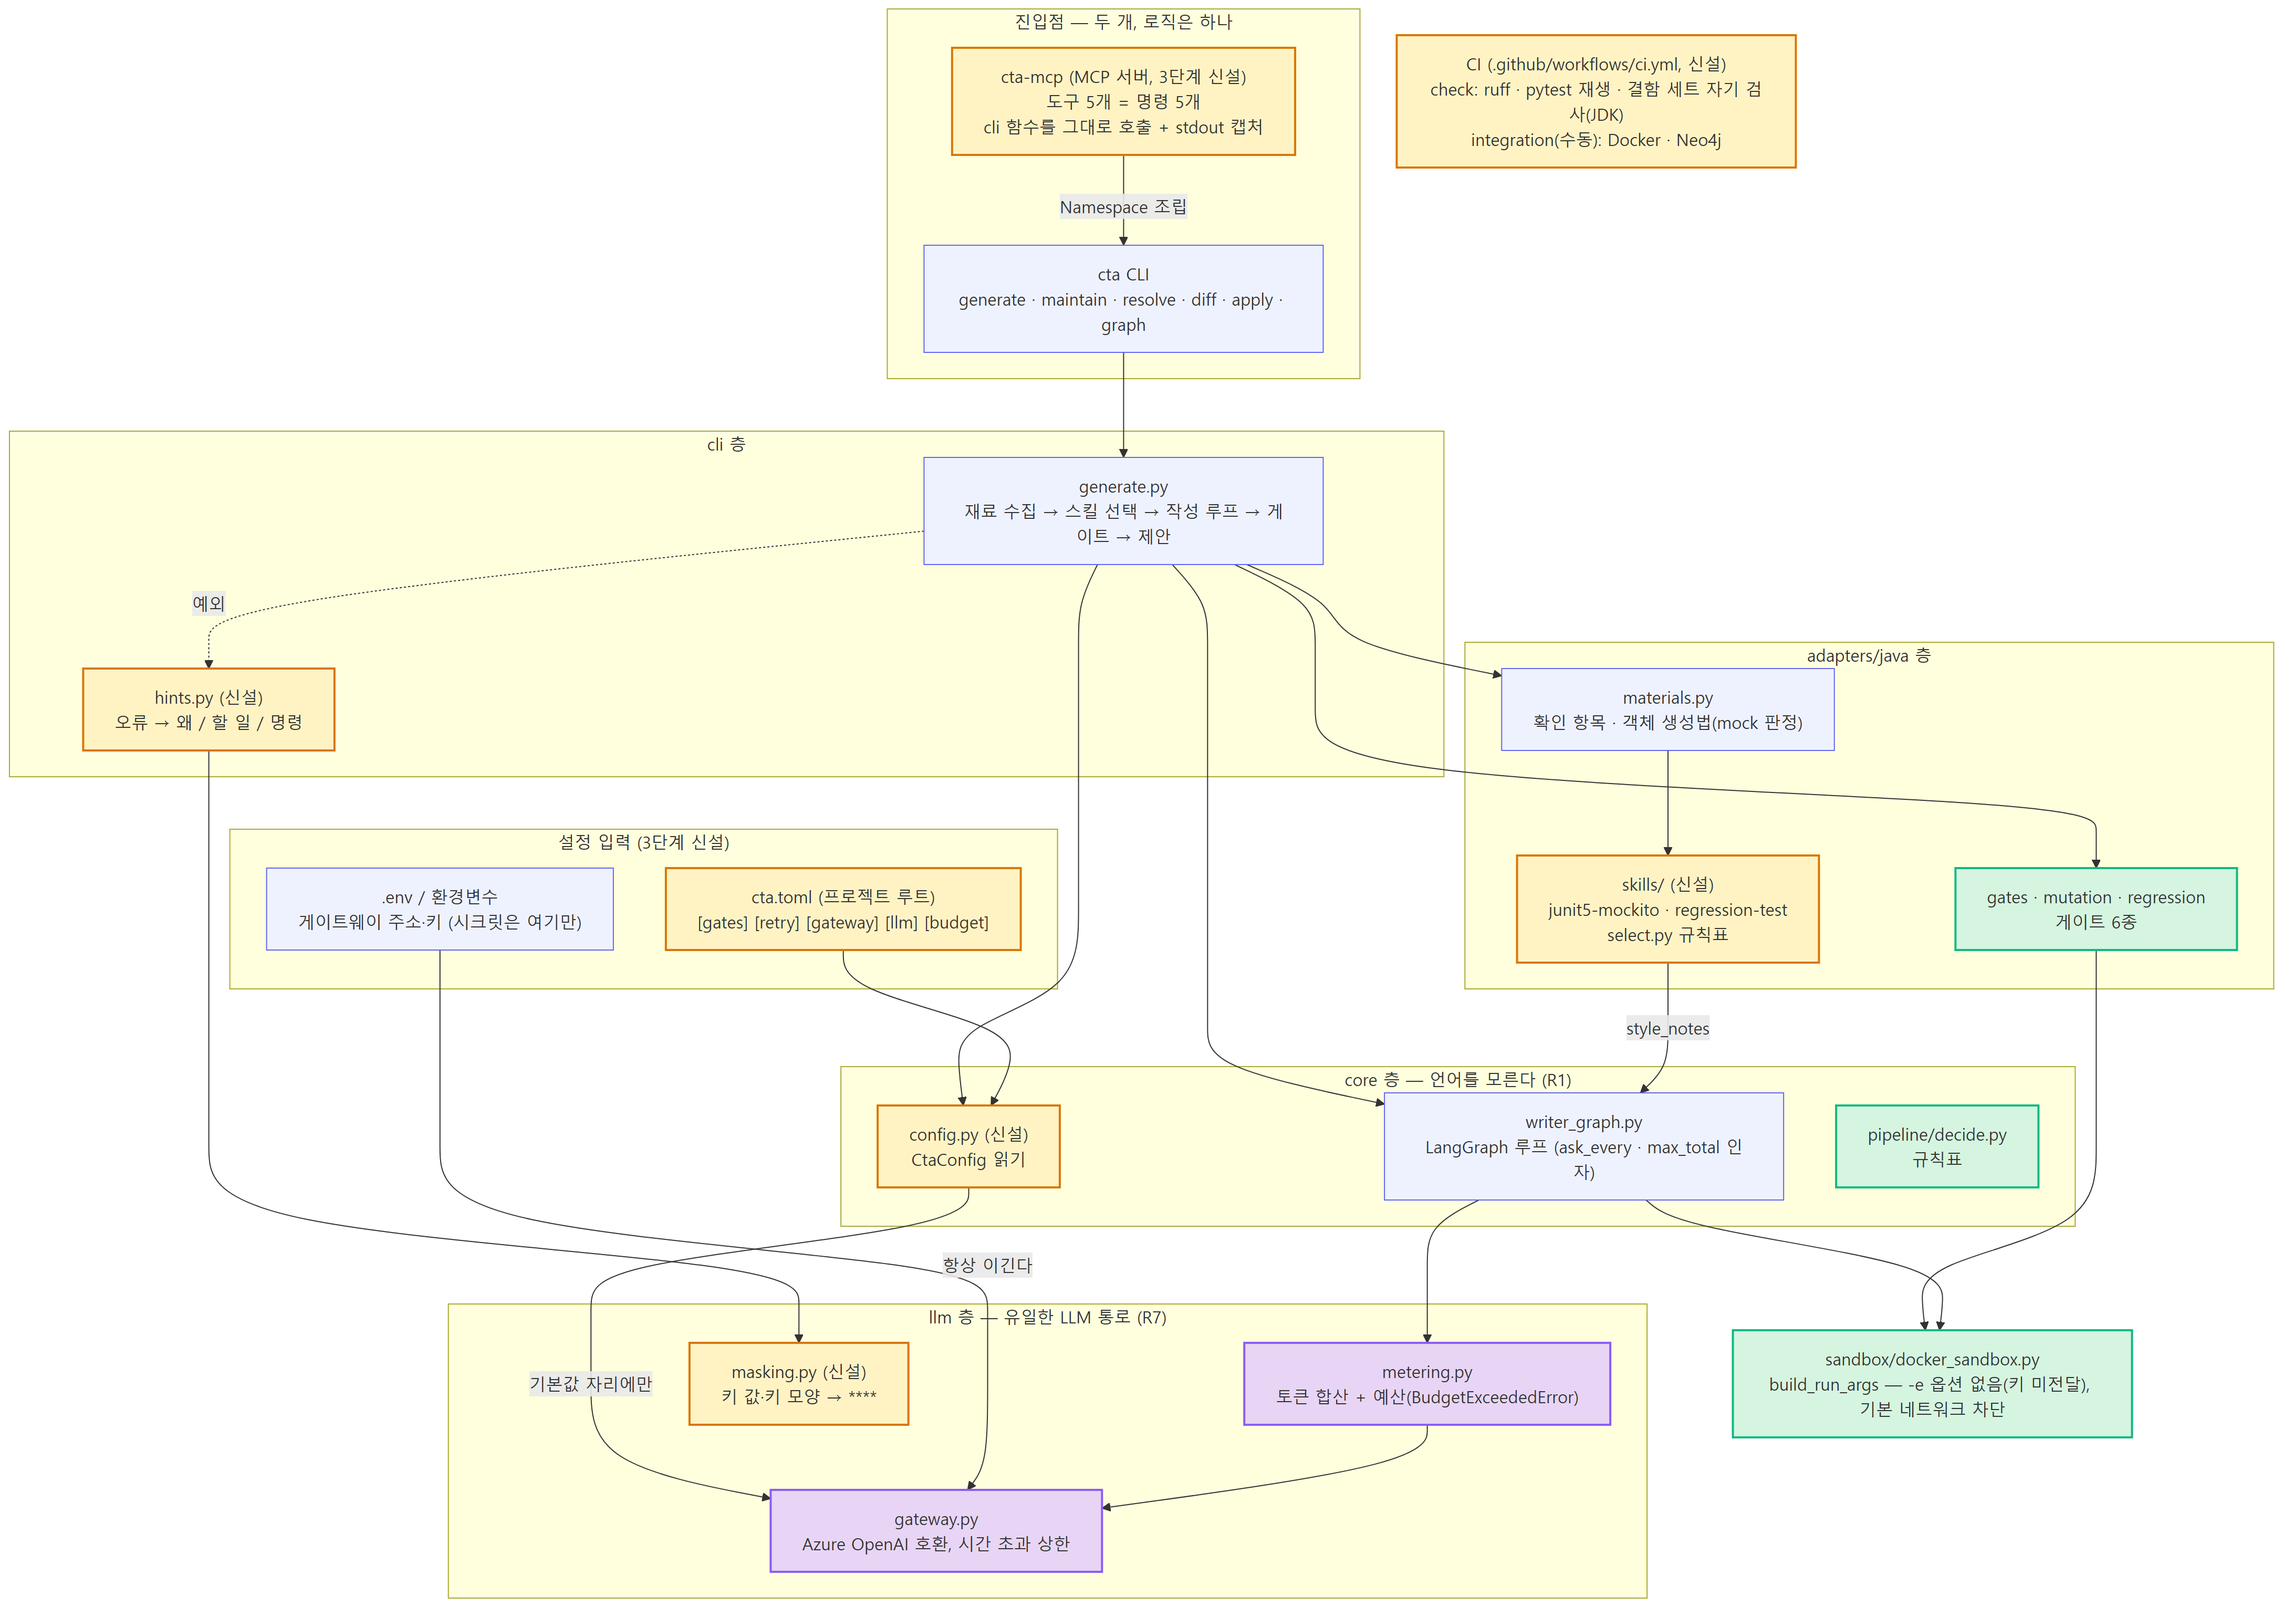
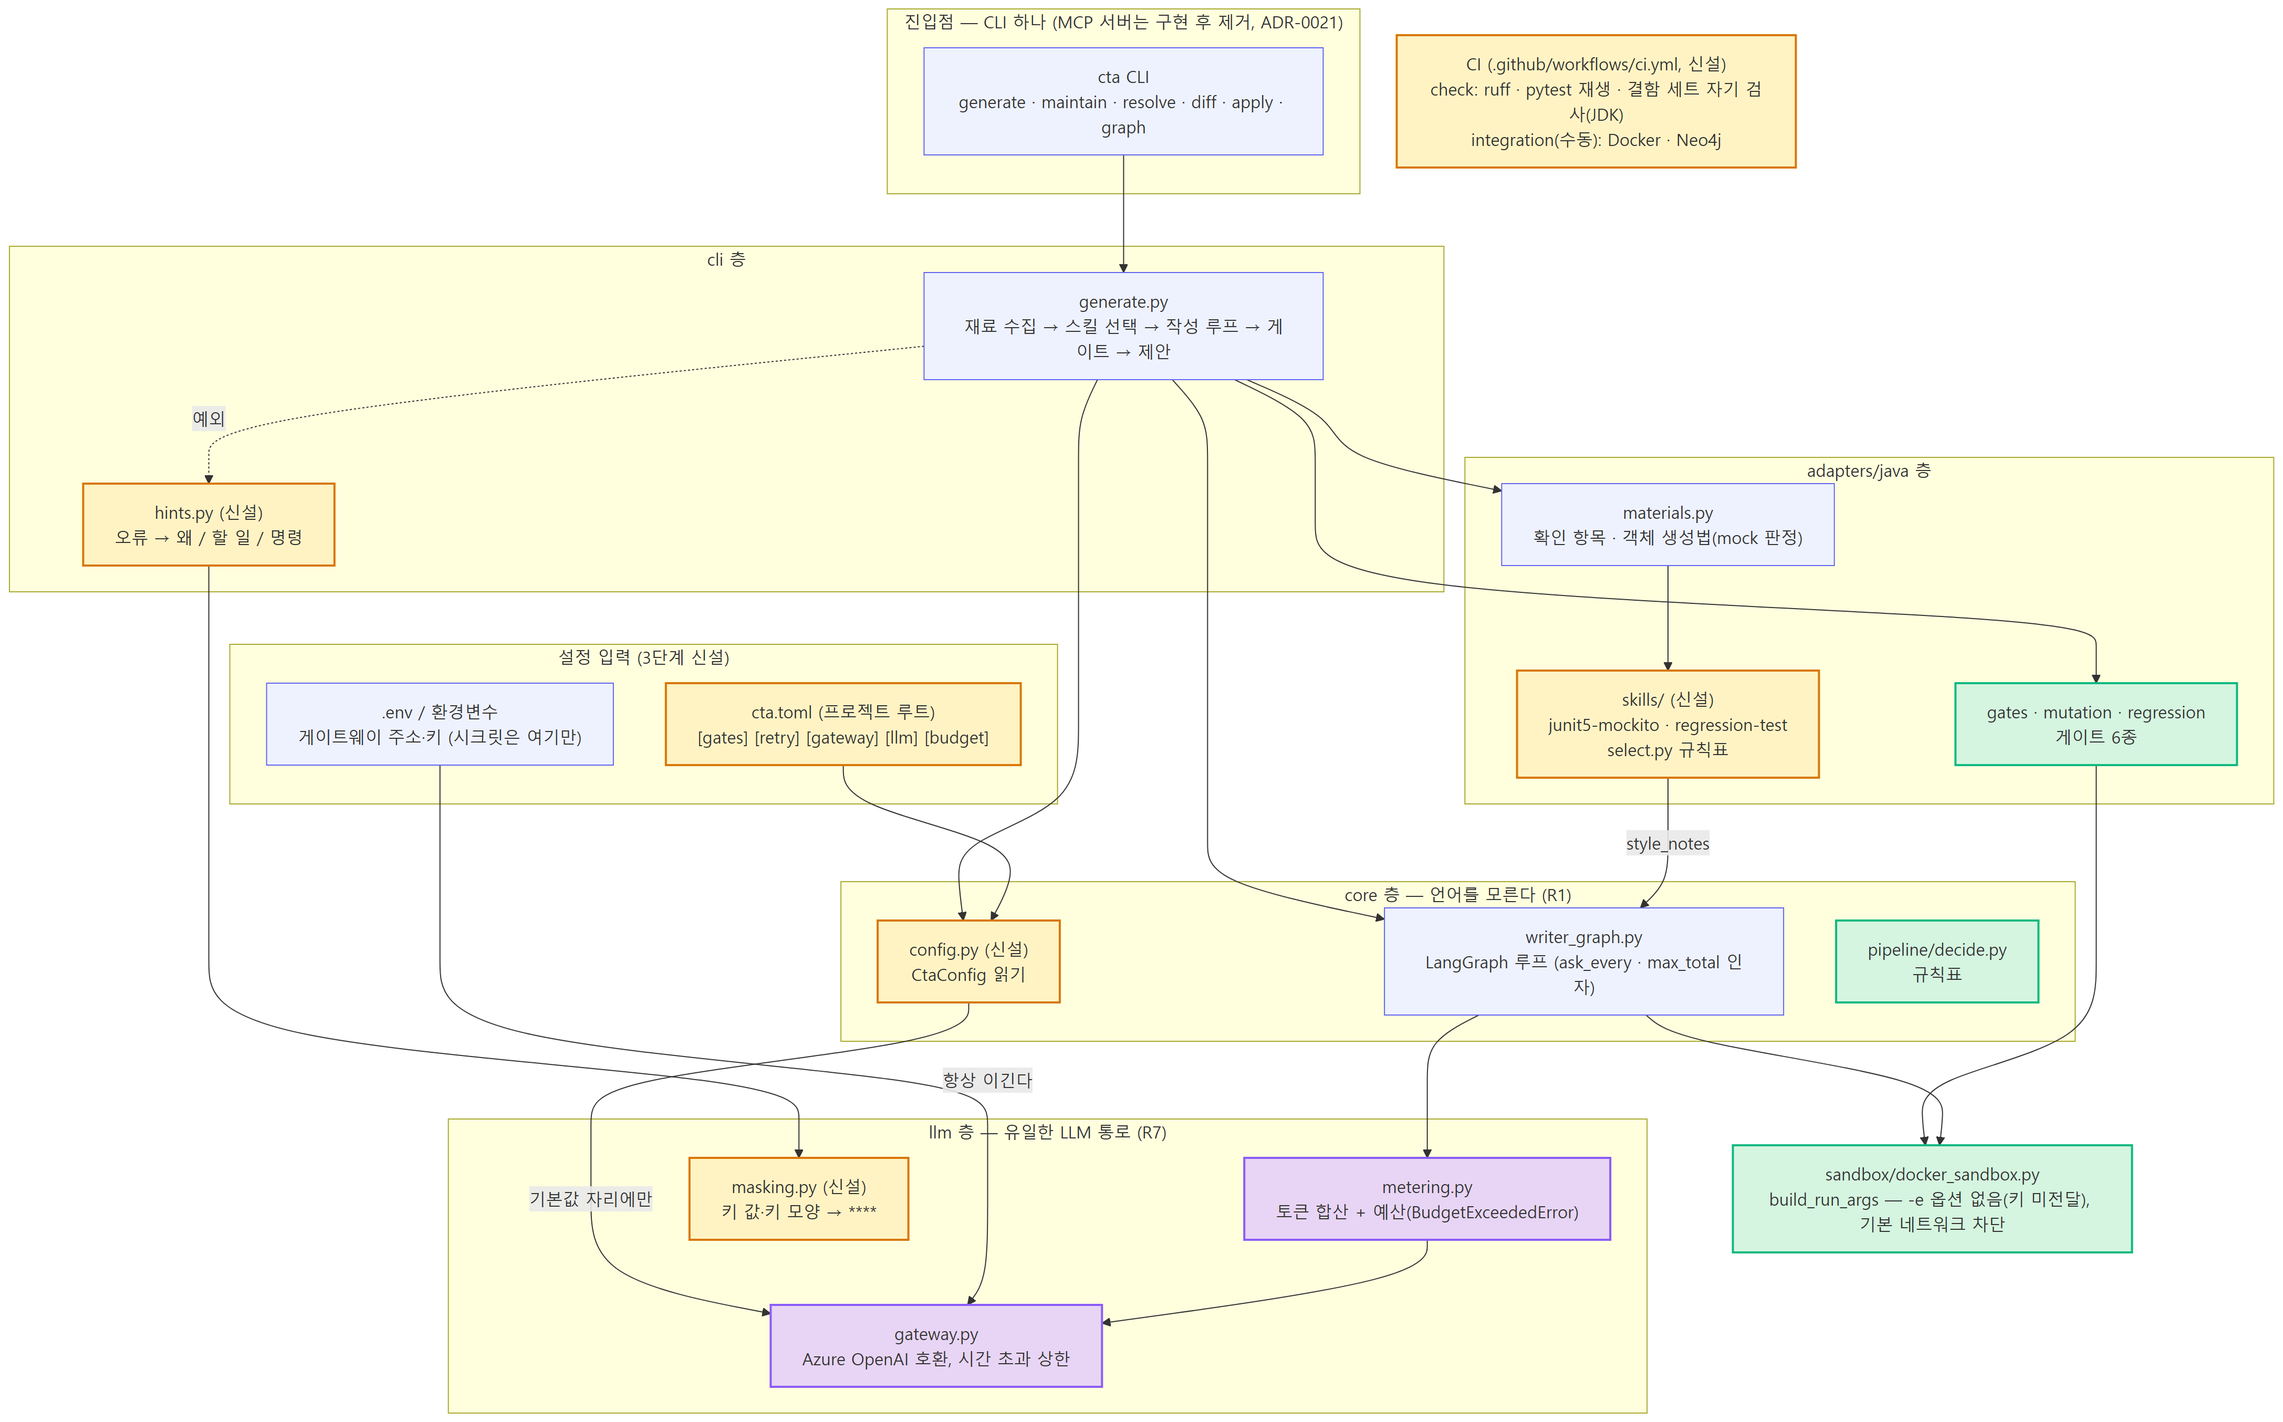
MCP 서버 제거 (2/2) — 설정·문서·다이어그램 반영 (ADR-0021)
직전 커밋 3fe5a95는 파일 삭제(cta/mcp·test_mcp·mcp-path)만 담겼다 — 이 커밋이 나머지를 채운다.
- pyproject: 선택 의존성 [mcp]·진입점 cta-mcp·패키지 cta.mcp 제거(3fe5a95 단독으로는 패키지 목록이 없는 폴더를 가리켜 설치가 깨짐)
- CI 설치 `pip install -e .`로 원복. 주석 3곳(config·gateway·test_config)의 MCP 언급을 "오래 사는 프로세스"로
- ADR-0021 신설, ADR-0018 폐기 표기, 색인 갱신
- 문서: README(Claude Code 절 삭제), 사용가이드(§14 삭제, §15→§14), architecture·contracts(MCP 층 삭제), 개발환경, CLAUDE.md, phase3 스킬,
  PoC구현, 제출자료/E2E서비스개발, E2E/최종보고. E2E 계획·기록 문서는 "구현 후 제거"로 표기 + e2e-notes 8주차
- 다이어그램: e2e-architecture·e2e-status·config-precedence 수정 후 재렌더(원본 해상도)

검증: ruff 통과, pytest 236 passed / 4 deselected / skip 0, 코드·설정·CI에 mcp 참조 0건, pip install -e . 후 cta --help 정상

diff --git a/cta/llm/config.py b/cta/llm/config.py
@@ -77,7 +77,7 @@ def make_llm_client(
       넘겨 로컬 설정과 격리한다 — 개발자의 .env가 테스트 결과를 바꾸면 안 된다.
     model_default / timeout_default: 프로젝트 설정(cta.toml)이 준 기본값. 환경변수·.env에
       값이 없을 때만 쓰인다(우선순위: 환경변수 > .env > cta.toml > 코드 기본값 — core/config.py).
-      환경변수에 써넣지 않는다 — 오래 사는 프로세스(MCP 서버)가 프로젝트를 바꿔도 이전 값이
+      환경변수에 써넣지 않는다 — 오래 사는 프로세스가 프로젝트를 바꿔도 이전 값이
       남지 않는다.
     실패 시 동작: 주소·키 미설정은 GatewayClient가 GatewayConfigError로 알린다.
     """

diff --git a/cta/llm/gateway.py b/cta/llm/gateway.py
@@ -60,7 +60,7 @@ class GatewayClient:
     def __init__(self, timeout_default: int | None = None) -> None:
         """timeout_default: 환경변수 CTA_GATEWAY_TIMEOUT이 없을 때 쓸 값(cta.toml [gateway]).
 
-        환경변수를 고쳐 넣지 않고 인자로 받는 이유: MCP 서버처럼 오래 사는 프로세스가 여러
+        환경변수를 고쳐 넣지 않고 인자로 받는 이유: 오래 사는 프로세스가 여러
         프로젝트를 차례로 다룰 때 첫 프로젝트의 설정이 환경변수에 남아 다음 프로젝트를
         오염시키면 안 된다.
         """

diff --git a/tests/test_config.py b/tests/test_config.py
@@ -74,7 +74,7 @@ class TestPrecedence:
         assert client.timeout == 120
 
     def test_cta_toml_값은_환경변수에_남지_않는다(self):
-        # 오래 사는 프로세스(MCP 서버)가 다음 프로젝트를 다룰 때 이전 프로젝트 설정이 이기면 안 된다
+        # 오래 사는 프로세스가 다음 프로젝트를 다룰 때 이전 프로젝트 설정이 이기면 안 된다
         make_llm_client(self.no_dotenv, model_default="gpt-5", timeout_default=600)
         assert "CTA_LLM_MODEL" not in os.environ
         assert "CTA_GATEWAY_TIMEOUT" not in os.environ

diff --git a/docs/E2E/README.md b/docs/E2E/README.md
@@ -6,14 +6,15 @@
 > **3단계 목표**: 개발자(나 아닌 사람)가 설치 가이드만 보고 자기 프로젝트에 돌릴 수 있는 상태.
 > 데모 시나리오 2개가 처음부터 끝까지 매끄럽게 도는 것.
 
-**진행 상태 (2026-09-06)**: M8-a 6건 완료 · M8-b B-1(스킬)·B-2(결함 세트 v2)·B-4(MCP)·B-5(메모 불변식) 구현 완료,
+**진행 상태 (2026-09-06)**: M8-a 6건 완료 · M8-b B-1(스킬)·B-2(결함 세트 v2)·B-4(MCP — 이후 제거)·B-5(메모 불변식) 구현 완료,
 B-3과 전/후 측정은 Docker·게이트웨이 환경 대기 · M8-c C-2(README)·C-4(문서 정합)·C-5(한계 절)·길이 조정 완료,
 C-1(데모 3회)·C-3(설치 테스트)·C-7(Linux)은 환경·사람 필요. 추가: 로컬 실행 모드 `--fast`(ADR-0019, 실기동 6초), 검토 4건 수정, 시각자료 6종, 최종보고. 세부는 [`e2e-notes.md`](e2e-notes.md), [`릴리스체크리스트.md`](릴리스체크리스트.md).
 
 **갱신 (2026-09-07)**: 다른 PC에 미커밋으로 남아 있던 **ADR-0020 의도 모름 축소**(2026-09-04 작업)를 병합했다 —
 `cta maintain --intent|--message`, `cta resolve --as`, `cta eval --intents`(의도 세트 10건 × 메시지 있음/없음, gpt-5 정확도 20/20·잘못된 unclear 0).
 ADR 번호 충돌(로컬 0016 ↔ 원격 0016 대화 압축)은 0020으로 옮겨 해소. 소스 전체 점검에서 결함 1건 수정(`resolve --as`가 `--fast`·`--runner`·`--quiet`를 무시)
-+ CI lint 설정 1건(ruff 0.16이 마크다운 코드 블록까지 포맷 검사 → `*.md` 제외). 단위 **236건** 통과. 점검 결과 전체는 e2e-notes "7주차".
++ CI lint 설정 1건(ruff 0.16이 마크다운 코드 블록까지 포맷 검사 → `*.md` 제외). 점검 결과 전체는 e2e-notes "7주차".
+같은 날 **MCP 서버 제거(ADR-0021)** — 발표·시연 볼륨을 줄이려는 사용자 결정. `cta/mcp/`·선택 의존성·진입점 삭제, 문서·다이어그램에서 제거. 단위 **236건** 통과(skip 0).
 
 3단계는 **넓히는 단계가 아니라 닫는 단계**다. 새 아이디어는 "향후 과제"로 보낸다.
 예외는 하나, 사람 멘토 피드백인 **워크플로우에 스킬 붙이기**다. 기술 어필이 부족하다는 지적이라 3단계 안에서 수치와 함께 닫는다.
@@ -47,7 +48,7 @@ phase2 스킬의 관문 3항목을 실측 근거로 대조했다.
 
 ## 2. 현황 진단 — 3단계 스킬 범위 대비 있는 것 / 없는 것
 
-> 이 표는 **3단계 진입 시점(2026-09-06 착수 전)의 스냅샷**이다. "없음"으로 적힌 항목 대부분(MCP·CI·설정 파일·스킬)은 이후 구현됐다 —
+> 이 표는 **3단계 진입 시점(2026-09-06 착수 전)의 스냅샷**이다. "없음"으로 적힌 항목 대부분(CI·설정 파일·스킬)은 이후 구현됐다(MCP는 구현 뒤 ADR-0021로 제거) —
 > 현재 상태는 상단 "진행 상태"와 [`e2e-notes.md`](e2e-notes.md), 남은 것은 [`릴리스체크리스트.md`](릴리스체크리스트.md)를 본다.
 
 | 3단계 범위 (스킬 M8) | 진입 시점 | 판정 |
@@ -79,8 +80,8 @@ phase2 스킬의 관문 3항목을 실측 근거로 대조했다.
 
 ### M8-b 확장 — 기술 어필 (1.5주)
 
-MCP 서버(core 재사용), 워크플로우 스킬(ADR-0017 → 스킬 2개 → 전/후 수치), 판단 메모 검색 강화 + 불변식 테스트, 결함 세트 확장.
-관문: Claude Code에서 MCP로 `generate`가 돈다. 스킬 전/후 표가 하네스 수치로 나온다. 결함 세트 12건 이상에서 검출률 재측정.
+MCP 서버(core 재사용 — 구현 후 ADR-0021로 제거), 워크플로우 스킬(ADR-0017 → 스킬 2개 → 전/후 수치), 판단 메모 검색 강화 + 불변식 테스트, 결함 세트 확장.
+관문: ~~Claude Code에서 MCP로 `generate`가 돈다~~(제거로 해당 없음). 스킬 전/후 표가 하네스 수치로 나온다. 결함 세트 12건 이상에서 검출률 재측정.
 
 ### M8-c 릴리스 — 닫기 (1주)
 
@@ -94,10 +95,10 @@ MCP 서버(core 재사용), 워크플로우 스킬(ADR-0017 → 스킬 2개 → 
 1. **설치 테스트**: 리포를 모르는 사람이 `docs/사용가이드.md`만 보고 새 Maven 프로젝트에 `cta generate`를 성공시킨다. 걸린 시간과 막힌 지점을 기록한다.
 2. **데모 2개**가 문서화된 명령 순서로 3회 연속 성공한다(콜드 스타트 / 유지보수 + escalate → resolve).
 3. **CI 그린**: ruff, pytest 재생 모드, 층 분리, 게이트 불변식. Docker·Neo4j 통합은 별도 잡(수동 또는 야간).
-4. **MCP**로 최소 `generate`·`maintain` 호출이 되고, CLI와 로직 중복이 없다(둘 다 core 호출 껍데기).
+4. ~~**MCP**로 최소 `generate`·`maintain` 호출이 되고, CLI와 로직 중복이 없다~~ — ADR-0021로 제거, 조건에서 제외.
 5. **스킬 전/후 수치**가 하네스 결과 파일과 함께 산출물에 있다.
 6. **시크릿 3 테스트** 초록, 커밋 diff에 키 모양 문자열 없음.
-7. **문서 정합**: ADR 목록 = 구현, `contracts.md` = `PoC구현.md` §2.0, `architecture.md` 모듈 표에 새 모듈(mcp, skills, config, sandbox/local_sandbox·factory, cli/eval_intents) 한 줄씩.
+7. **문서 정합**: ADR 목록 = 구현, `contracts.md` = `PoC구현.md` §2.0, `architecture.md` 모듈 표에 새 모듈(skills, config, sandbox/local_sandbox·factory, cli/eval_intents) 한 줄씩.
 8. **알려진 한계**가 사용가이드와 산출물 양쪽에 같은 내용으로 있다.
 
 ---

diff --git a/docs/E2E/e2e-notes.md b/docs/E2E/e2e-notes.md
@@ -128,13 +128,22 @@
 
 기록만 한 것(개선 후보 — 신규 기능이 아니라 정합·중복):
 - `cli/graph_cmd.py`가 "캐시 없으면 준비" 로직을 `cli/generate.ensure_prepared`와 따로 갖고 있다(문구·잘라내는 길이만 다름). 동작 오류는 없어 두었다 — 합치면 한 곳
-- MCP `resolve` 도구는 intended/test-issue/proceed/skip만 받는다. `--as`(ADR-0020)는 CLI에만 있다 — 의도적 범위이며 필요하면 ADR-0018 후속
+- ~~MCP `resolve` 도구에 `--as` 없음~~ → 같은 날 MCP 자체를 제거(8주차)
 - `docs/contracts.md` 품질 게이트 표 아래에 설정 파일 절이 끼어들어 게이트 행 10줄이 고아처럼 보인다(내용은 맞음) — 절 순서만 정리
 - `docs/사용가이드.md` §1·§7 옵션 표에 `--as`·`--intent`·`--message`·`--quiet`·`--runner`가 빠져 있다(본문 §6·§7에는 있음). `--warmup-test`·`eval` 옵션은 어디에도 없다
 - `docs/architecture.md` §개요에 "`mcp_server/`만 아직 없다"가 남아 있다(`cta/mcp/` 존재). 층 그림에 sandbox·mcp 줄 없음
 - `docs/adr/README.md` 0010 상태 "승인" ↔ 파일은 "폐기 — 0011로 대체"
 - 산출물 `E2E서비스개발.md`의 단위 222/224건·오류 안내 9행·"새 ADR 0016~0018"·"setdefault 주입" 표기는 현재(236건·10행·0016~0020·인자 전달)와 다르다
 - R1~R7 위반 없음(재확인: 도구 6개, 빈 selector 거부는 Docker·로컬 둘 다, 로컬 폴백 경로 없음, LLM 호출은 `llm/`만)
+
+### 8주차 — MCP 서버 제거 (2026-09-07, 사용자 결정 "볼륨이 너무 커져 발표·시연이 어렵다")
+
+- **ADR-0021**(0018 폐기): 진입점은 CLI 하나. `cta/mcp/`(핸들러·서버)·`tests/test_mcp.py`·선택 의존성 `[mcp]`·진입점 `cta-mcp`·
+  패키지 목록 `cta.mcp` 삭제, CI 설치 `pip install -e .`로 원복
+- **유지한 것**: MCP를 계기로 고친 "cta.toml 값을 환경변수에 쓰지 않는다"는 오래 사는 프로세스 일반의 이유라 그대로 둠(주석만 MCP 언급 제거)
+- **문서**: README·사용가이드(§14 삭제, §15→§14)·architecture·contracts·개발환경·CLAUDE.md·phase3 스킬·PoC구현·E2E 산출물·최종보고에서 제거.
+  다이어그램 `mcp-path` 삭제, `e2e-architecture`(진입점 하나)·`e2e-status`(B-4 제거 표기)·`config-precedence`(문구) 재렌더.
+  작업 기록·계획 문서는 이력이라 "구현 후 제거"로만 표기
 
 ## 검증 기록
 
@@ -155,6 +164,8 @@
   1 skipped(`test_mcp` — venv에 mcp SDK 없음), 4 deselected(신규 4: 작성자 지정 의도 8 + 회귀 1 = 9, 기존 232 대비 병합분).
   CLI 스모크: `cta maintain/resolve/eval --help`에 `--intent`·`--message`·`--as`·`--intents`·`--variant` 노출.
   이 PC: Docker 데몬 꺼짐, 로컬 Maven 3.9.16·JDK 21 있음, 게이트웨이 키 있음 — 실호출·Docker 실측은 하지 않았다
+- 2026-09-07 8주차(MCP 제거): `ruff check`·`format --check` 통과 · `pytest -q` **236 passed**, 4 deselected, skip 0(test_mcp 6건 삭제 — 이 venv에서는 모듈째 skip 1건이었다) ·
+  `grep -ri mcp cta tests pyproject.toml .github` 0건 · `pip install -e .` 후 `cta --help` 정상
 
 ## 문제·리서치 로그
 
